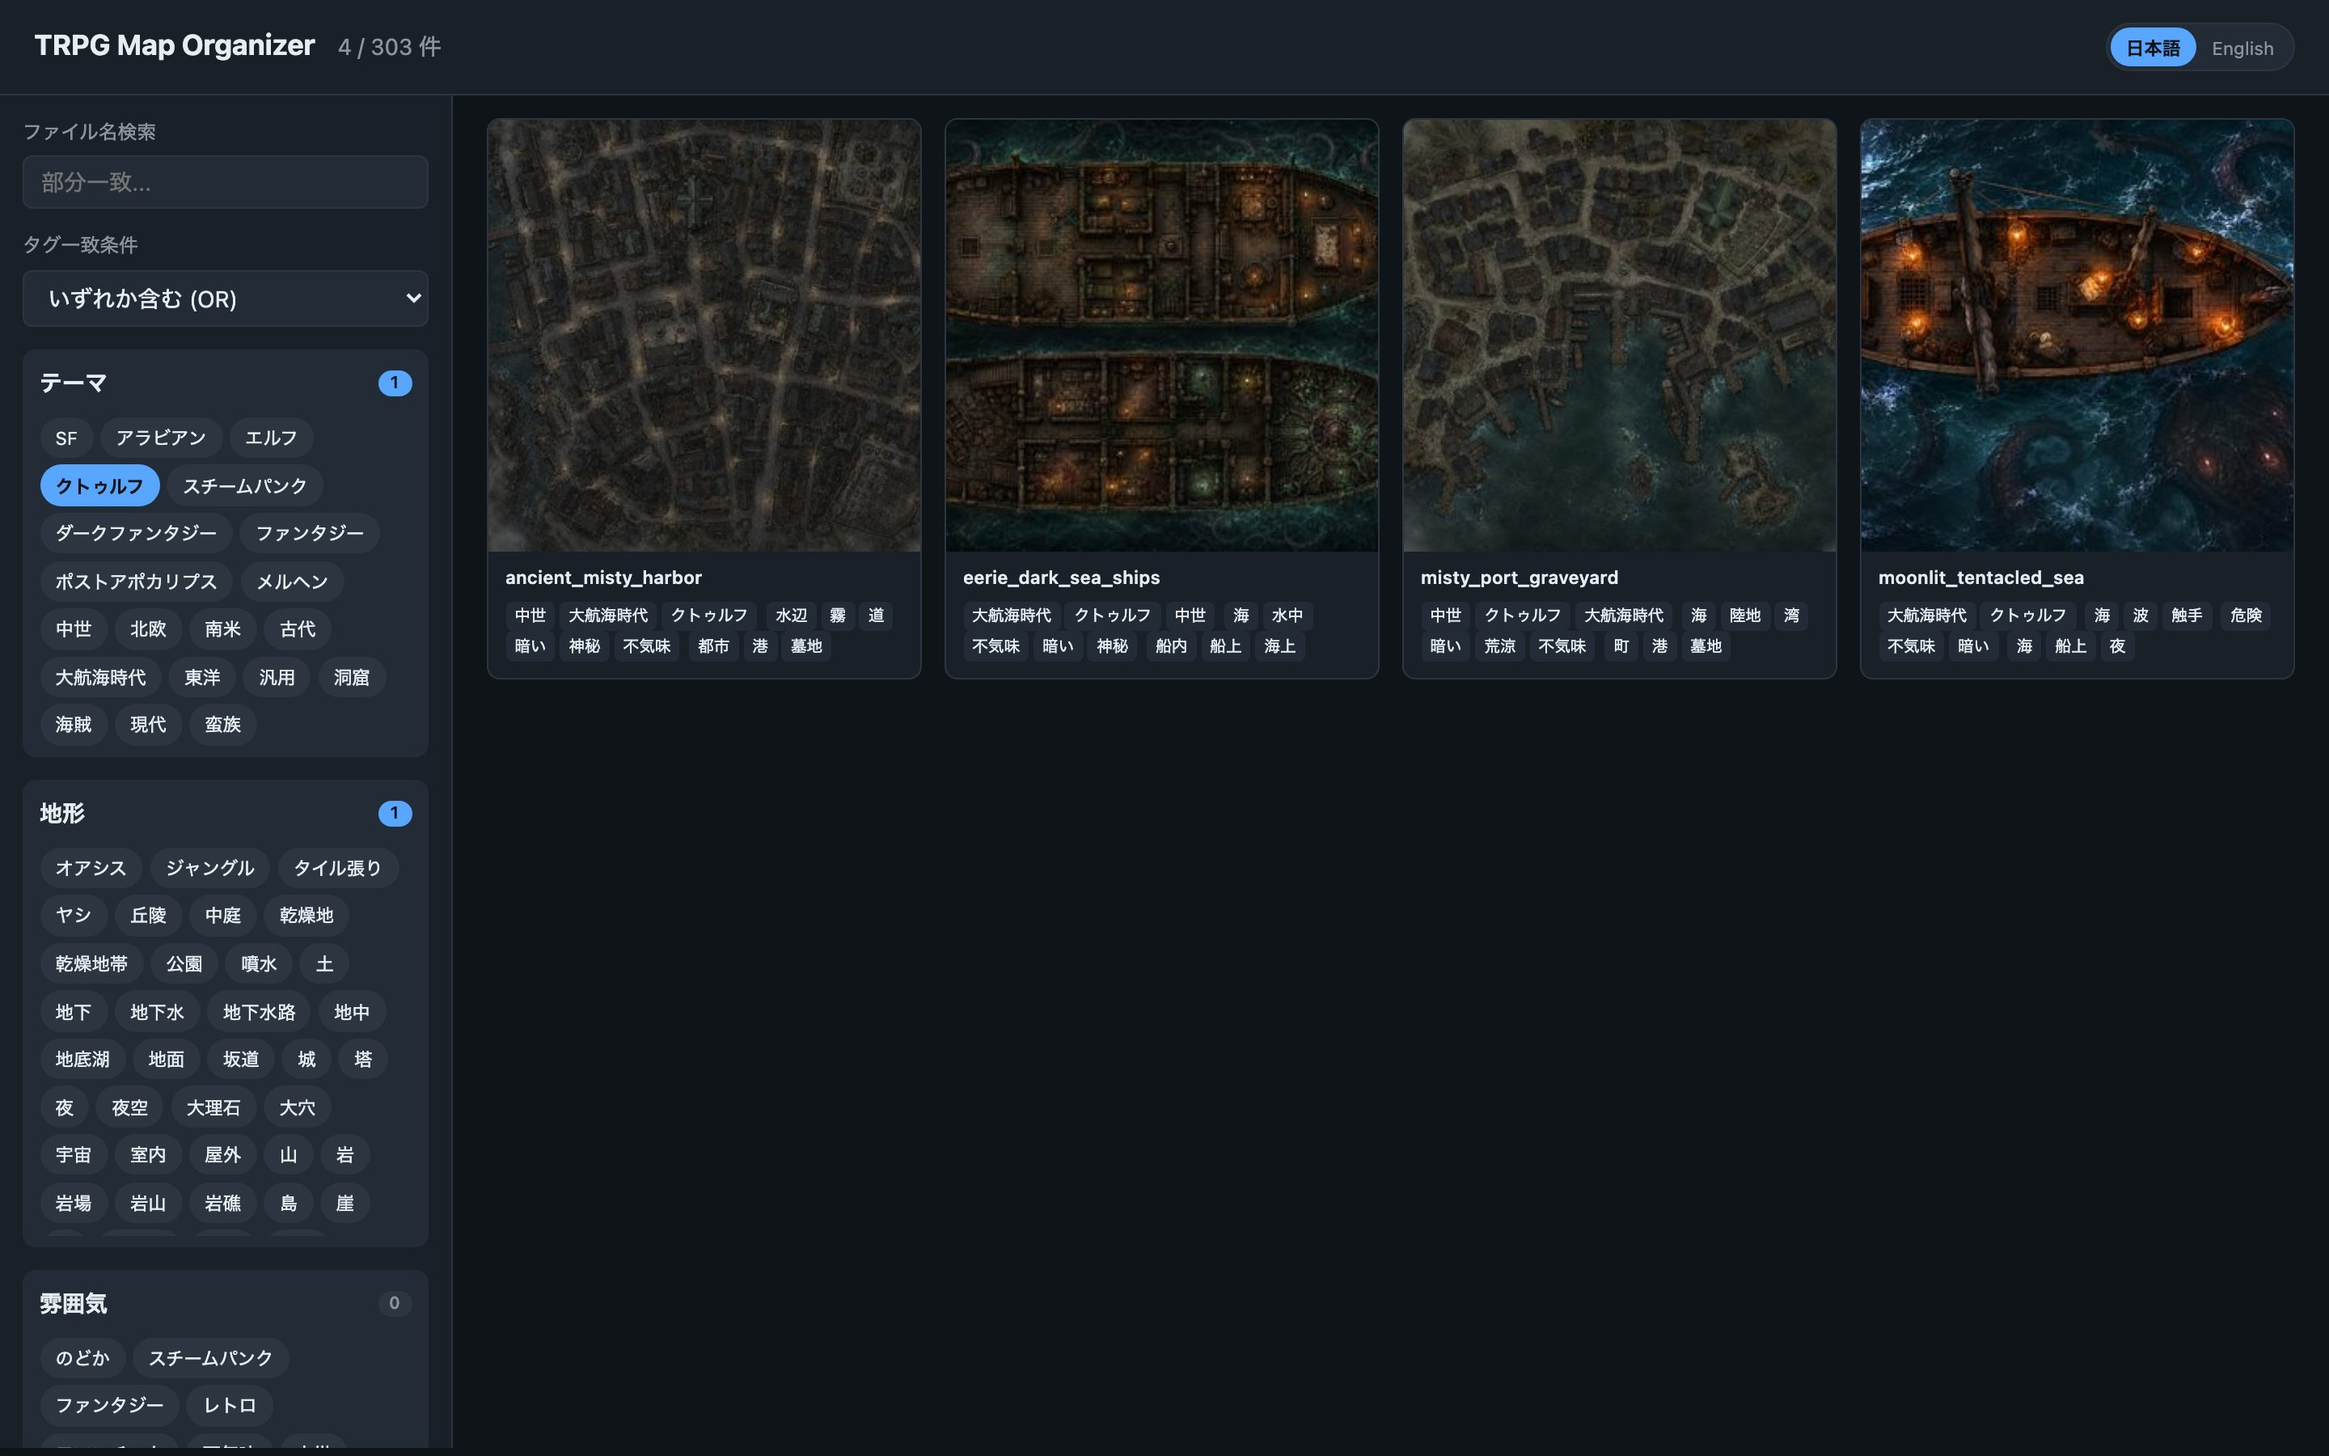
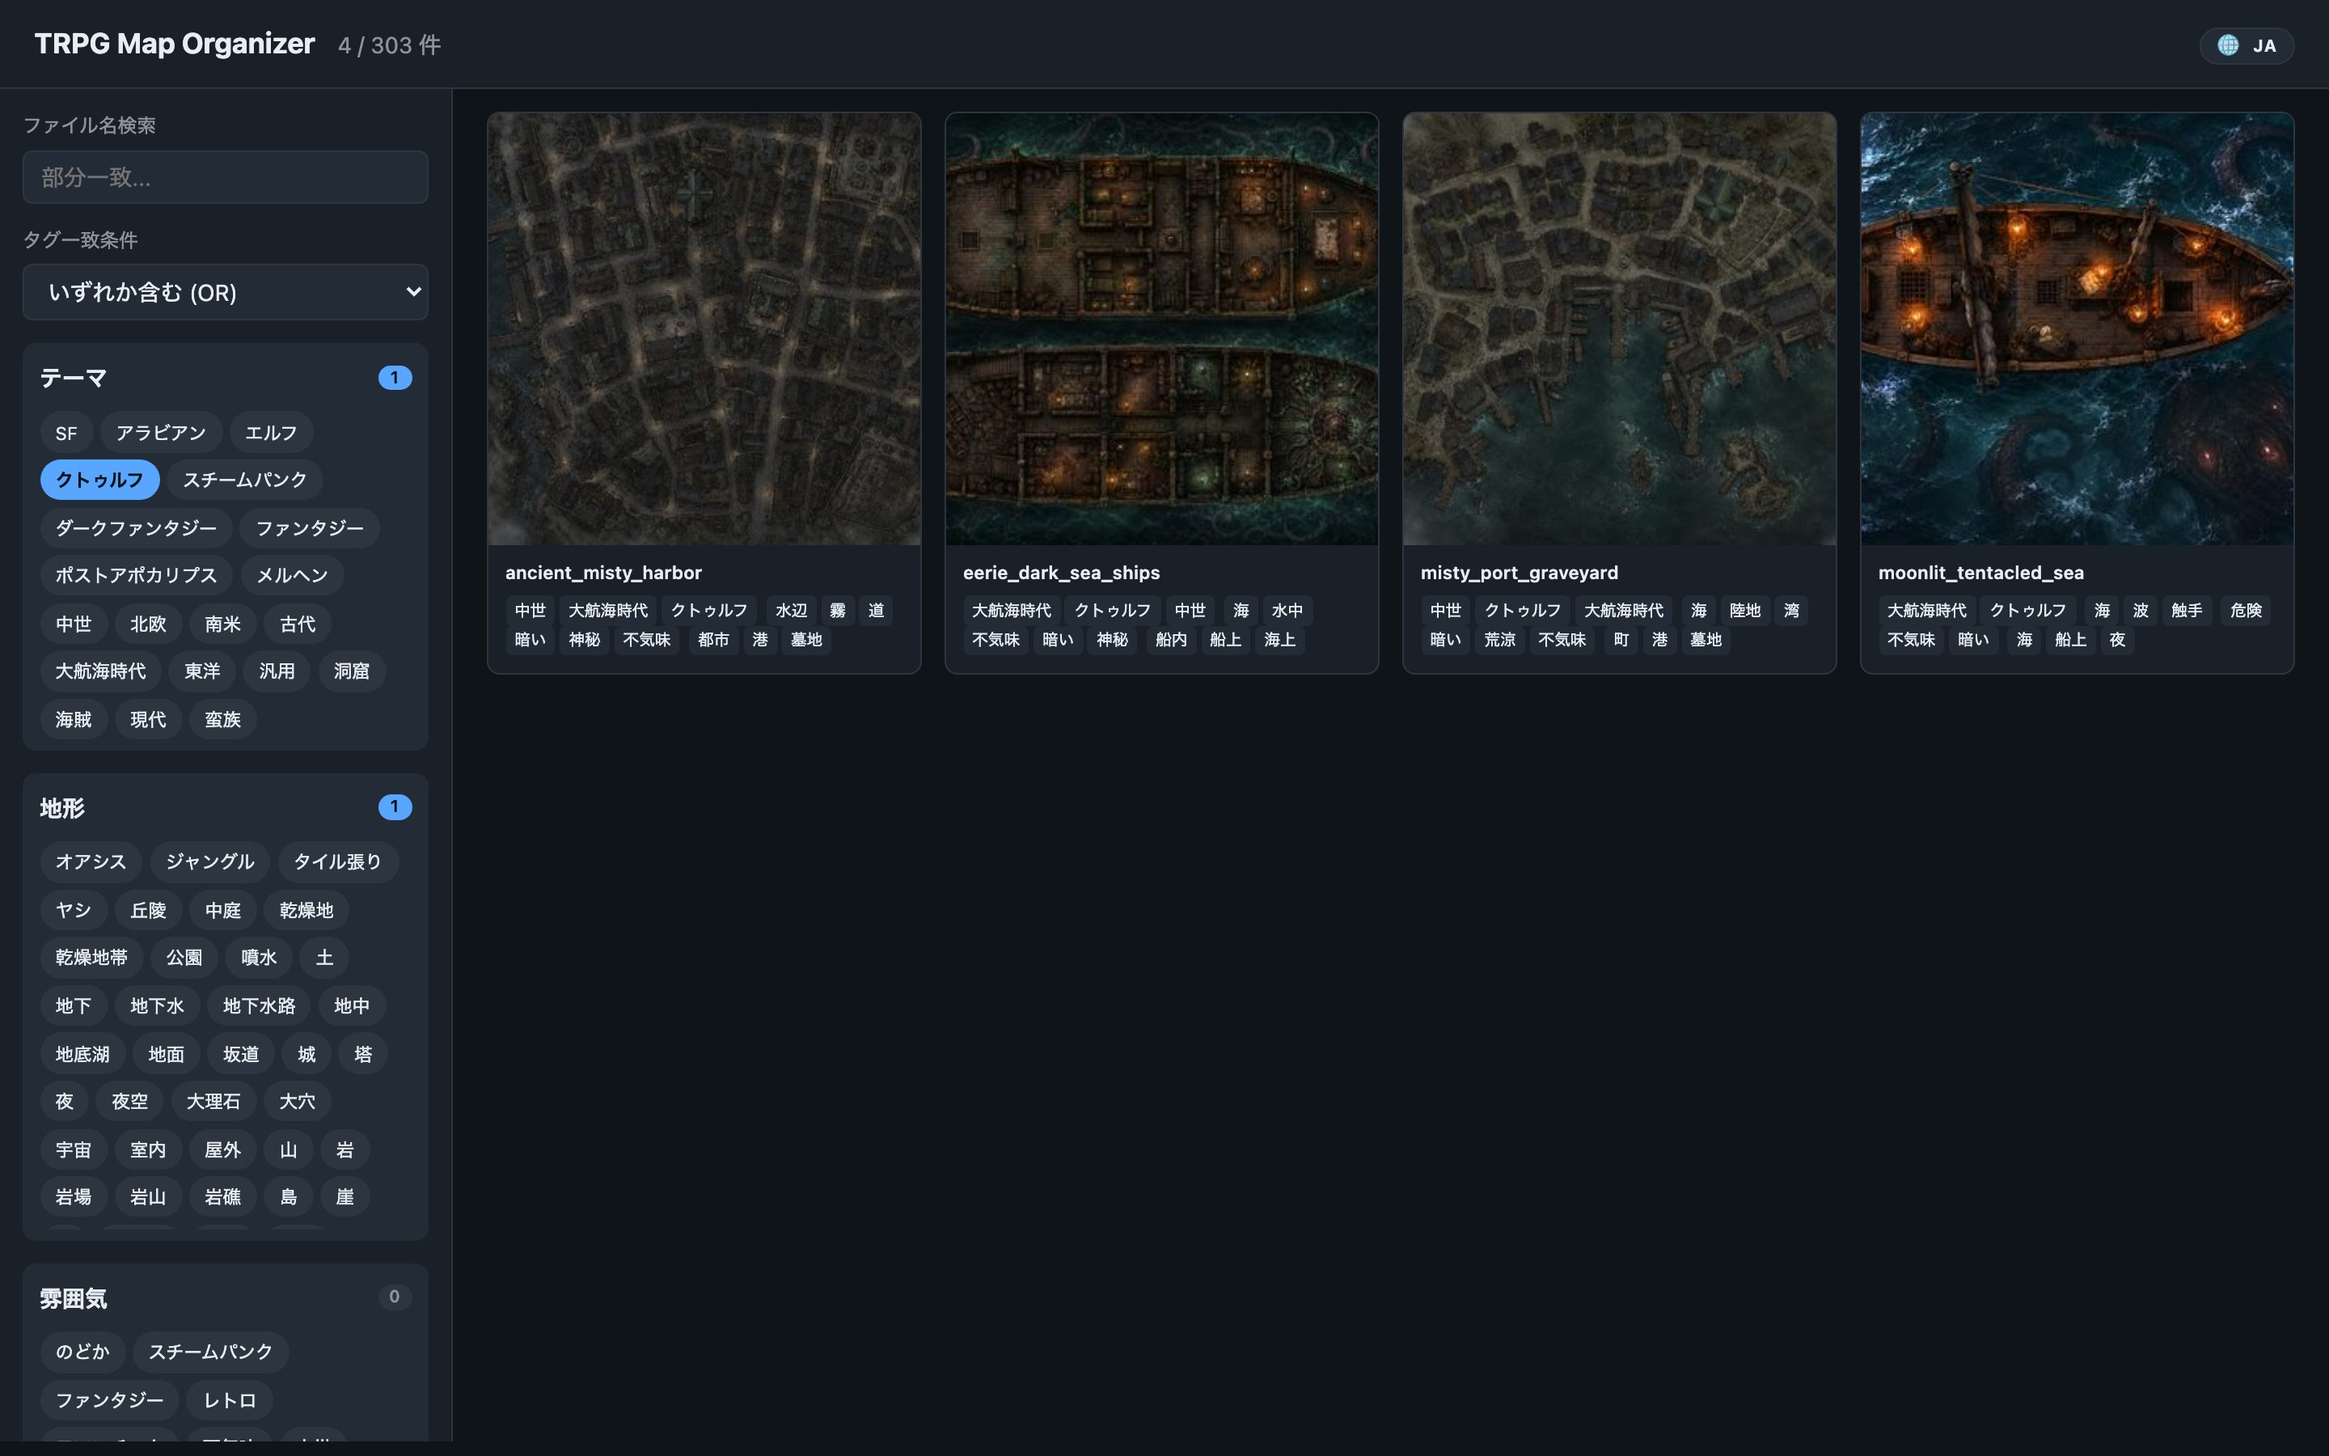
feat(web): モバイルヘッダーを 1 行化 + フィルタ強調 + 言語アイコン化
ユーザフィードバックを反映:
1. モバイル時のトップバーが 2 行に折り返していたため、4 要素を 1 行に収まる
   ように調整 (375 幅で 365px 内に収まる)
2. フィルタボタンをアクセント青の強調表示に変更し常時目立つように
   (背景=accent / 太字 / シャドウ / 選択時パルスアニメ)
3. 言語スイッチャの 2 ボタン構造を「🌐 + 現在 lang コード」の 1 ボタンに
   置き換え、タップで JA <-> EN をトグル

実装詳細:
- index.html:
  - <h1> に .topbar-title クラス + ellipsis 用に min-width:0 設定
  - <div.lang-switcher> の 2 ボタンを <button.lang-toggle> 1 つに置換
  - filter-icon を ☰ から 🔍 に変更
- style.css:
  - 既定: .topbar-title (ellipsis), .lang-toggle (新, アイコン+code)
  - mobile (@max-width: 800px):
    * .topbar { flex-wrap: nowrap; gap: 0.4rem; padding 縮小 }
    * .topbar-title { font 0.9rem, ellipsize }
    * .count { font 0.75rem, margin-right:auto }
    * .filter-toggle { accent BG, font 700, shadow, padding 大きめ }
    * .filter-toggle.has-filters でパルス
    * .lang-toggle { 縮小 }
- app.js:
  - applyUiTranslations が #lang-code を state.lang から再描画
  - lang-toggle.click でトグル (ja <-> en) + localStorage 保存
  - 旧 .lang-btn ループを撤去

検証 (375x812):
- 4 要素が同一行 (y_spread=8px, same_row=true) ✓
- 全要素合計 width 365px / 375px ✓
- 言語タップで lang=ja→en, code=JA→EN, count=303件→303 items,
  filter_label=フィルタ→Filters, タグ=SF→sci-fi に全連動 ✓
- 再タップで JA に戻る ✓

diff --git a/docs/style.css b/docs/style.css
@@ -46,15 +46,20 @@ body.scroll-locked {
   z-index: 30;
 }
 
-.topbar h1 {
+.topbar-title {
   margin: 0;
   font-size: 1.25rem;
+  white-space: nowrap;
+  overflow: hidden;
+  text-overflow: ellipsis;
+  min-width: 0;
 }
 
 .count {
   color: var(--text-dim);
   font-variant-numeric: tabular-nums;
   margin-right: auto;
+  white-space: nowrap;
 }
 
 /* モバイル時のみ表示するフィルタトグルボタン */
@@ -97,6 +102,30 @@ body.scroll-locked {
   background: rgba(15, 20, 25, 0.25);
   color: var(--tag-fg-active);
 }
+
+/* 言語切替トグル (アイコンボタン) */
+.lang-toggle {
+  display: inline-flex;
+  align-items: center;
+  gap: 0.35rem;
+  background: var(--panel-2);
+  color: var(--text);
+  border: 1px solid var(--border);
+  border-radius: 999px;
+  padding: 0.3rem 0.7rem;
+  font-family: inherit;
+  font-size: 0.75rem;
+  font-weight: 700;
+  letter-spacing: 0.05em;
+  cursor: pointer;
+  flex-shrink: 0;
+}
+.lang-toggle:hover {
+  border-color: var(--accent);
+  color: var(--accent);
+}
+.lang-toggle .lang-icon { font-size: 0.95rem; line-height: 1; }
+.lang-toggle .lang-code { line-height: 1; }
 
 .sidebar-backdrop {
   display: none;
@@ -520,15 +549,62 @@ body.scroll-locked {
 }
 
 @media (max-width: 800px) {
+  /* モバイル: タイトル / 件数 / フィルタ / 言語 を 1 行に収める */
   .topbar {
-    flex-wrap: wrap;
-    gap: 0.5rem;
-    padding: 0.7rem 0.85rem;
+    flex-wrap: nowrap;
+    gap: 0.4rem;
+    padding: 0.55rem 0.7rem;
+    align-items: center;
   }
-  .topbar h1 { font-size: 1rem; }
-  .filter-toggle { display: inline-flex; }
-  /* 日本語/英語スイッチャはやや小さく */
-  .lang-btn { padding: 0.2rem 0.55rem; font-size: 0.75rem; }
+  .topbar-title {
+    font-size: 0.9rem;
+    flex: 0 1 auto;
+    min-width: 0;
+  }
+  .count {
+    font-size: 0.75rem;
+    margin-right: auto;
+    flex-shrink: 1;
+    min-width: 0;
+  }
+
+  /* フィルタはアクセントカラーで常時目立つように */
+  .filter-toggle {
+    display: inline-flex;
+    background: var(--accent);
+    color: var(--tag-fg-active);
+    border-color: var(--accent);
+    font-weight: 700;
+    padding: 0.45rem 0.85rem;
+    box-shadow: 0 2px 10px rgba(88, 166, 255, 0.45);
+    flex-shrink: 0;
+  }
+  .filter-toggle:hover {
+    background: var(--accent);
+    color: var(--tag-fg-active);
+    border-color: var(--accent);
+  }
+  .filter-toggle .filter-icon { font-size: 1.05rem; }
+  .filter-toggle .filter-badge {
+    background: rgba(15, 20, 25, 0.3);
+    color: var(--tag-fg-active);
+    font-weight: 700;
+  }
+  /* 選択タグがあれば光らせて気付かせる */
+  .filter-toggle.has-filters {
+    animation: filter-pulse 1.4s ease-in-out;
+  }
+  @keyframes filter-pulse {
+    0% { box-shadow: 0 2px 10px rgba(88, 166, 255, 0.45); }
+    50% { box-shadow: 0 4px 16px rgba(88, 166, 255, 0.85); }
+    100% { box-shadow: 0 2px 10px rgba(88, 166, 255, 0.45); }
+  }
+
+  .lang-toggle {
+    padding: 0.32rem 0.55rem;
+    font-size: 0.7rem;
+  }
+  .lang-toggle .lang-icon { font-size: 1rem; }
 
   .layout { grid-template-columns: 1fr; }
 

diff --git a/web/style.css b/web/style.css
@@ -46,15 +46,20 @@ body.scroll-locked {
   z-index: 30;
 }
 
-.topbar h1 {
+.topbar-title {
   margin: 0;
   font-size: 1.25rem;
+  white-space: nowrap;
+  overflow: hidden;
+  text-overflow: ellipsis;
+  min-width: 0;
 }
 
 .count {
   color: var(--text-dim);
   font-variant-numeric: tabular-nums;
   margin-right: auto;
+  white-space: nowrap;
 }
 
 /* モバイル時のみ表示するフィルタトグルボタン */
@@ -97,6 +102,30 @@ body.scroll-locked {
   background: rgba(15, 20, 25, 0.25);
   color: var(--tag-fg-active);
 }
+
+/* 言語切替トグル (アイコンボタン) */
+.lang-toggle {
+  display: inline-flex;
+  align-items: center;
+  gap: 0.35rem;
+  background: var(--panel-2);
+  color: var(--text);
+  border: 1px solid var(--border);
+  border-radius: 999px;
+  padding: 0.3rem 0.7rem;
+  font-family: inherit;
+  font-size: 0.75rem;
+  font-weight: 700;
+  letter-spacing: 0.05em;
+  cursor: pointer;
+  flex-shrink: 0;
+}
+.lang-toggle:hover {
+  border-color: var(--accent);
+  color: var(--accent);
+}
+.lang-toggle .lang-icon { font-size: 0.95rem; line-height: 1; }
+.lang-toggle .lang-code { line-height: 1; }
 
 .sidebar-backdrop {
   display: none;
@@ -520,15 +549,62 @@ body.scroll-locked {
 }
 
 @media (max-width: 800px) {
+  /* モバイル: タイトル / 件数 / フィルタ / 言語 を 1 行に収める */
   .topbar {
-    flex-wrap: wrap;
-    gap: 0.5rem;
-    padding: 0.7rem 0.85rem;
+    flex-wrap: nowrap;
+    gap: 0.4rem;
+    padding: 0.55rem 0.7rem;
+    align-items: center;
   }
-  .topbar h1 { font-size: 1rem; }
-  .filter-toggle { display: inline-flex; }
-  /* 日本語/英語スイッチャはやや小さく */
-  .lang-btn { padding: 0.2rem 0.55rem; font-size: 0.75rem; }
+  .topbar-title {
+    font-size: 0.9rem;
+    flex: 0 1 auto;
+    min-width: 0;
+  }
+  .count {
+    font-size: 0.75rem;
+    margin-right: auto;
+    flex-shrink: 1;
+    min-width: 0;
+  }
+
+  /* フィルタはアクセントカラーで常時目立つように */
+  .filter-toggle {
+    display: inline-flex;
+    background: var(--accent);
+    color: var(--tag-fg-active);
+    border-color: var(--accent);
+    font-weight: 700;
+    padding: 0.45rem 0.85rem;
+    box-shadow: 0 2px 10px rgba(88, 166, 255, 0.45);
+    flex-shrink: 0;
+  }
+  .filter-toggle:hover {
+    background: var(--accent);
+    color: var(--tag-fg-active);
+    border-color: var(--accent);
+  }
+  .filter-toggle .filter-icon { font-size: 1.05rem; }
+  .filter-toggle .filter-badge {
+    background: rgba(15, 20, 25, 0.3);
+    color: var(--tag-fg-active);
+    font-weight: 700;
+  }
+  /* 選択タグがあれば光らせて気付かせる */
+  .filter-toggle.has-filters {
+    animation: filter-pulse 1.4s ease-in-out;
+  }
+  @keyframes filter-pulse {
+    0% { box-shadow: 0 2px 10px rgba(88, 166, 255, 0.45); }
+    50% { box-shadow: 0 4px 16px rgba(88, 166, 255, 0.85); }
+    100% { box-shadow: 0 2px 10px rgba(88, 166, 255, 0.45); }
+  }
+
+  .lang-toggle {
+    padding: 0.32rem 0.55rem;
+    font-size: 0.7rem;
+  }
+  .lang-toggle .lang-icon { font-size: 1rem; }
 
   .layout { grid-template-columns: 1fr; }
 

diff --git a/docs/app.js b/docs/app.js
@@ -178,10 +178,9 @@ function applyUiTranslations() {
   }
   // html lang 属性
   document.documentElement.lang = state.lang;
-  // 言語スイッチャの active 状態
-  for (const btn of document.querySelectorAll('.lang-btn')) {
-    btn.classList.toggle('active', btn.dataset.lang === state.lang);
-  }
+  // 言語ボタンの現在表示
+  const codeEl = document.getElementById('lang-code');
+  if (codeEl) codeEl.textContent = state.lang === 'ja' ? 'JA' : 'EN';
 }
 
 // ===== フィルタ UI =====
@@ -570,16 +569,15 @@ function bindEvents() {
   document.getElementById('filter-toggle').addEventListener('click', toggleSidebar);
   document.getElementById('sidebar-backdrop').addEventListener('click', closeSidebar);
 
-  for (const btn of document.querySelectorAll('.lang-btn')) {
-    btn.addEventListener('click', () => {
-      state.lang = btn.dataset.lang;
-      localStorage.setItem('lang', state.lang);
-      applyUiTranslations();
-      refreshChipLabels();
-      render();
-      if (document.getElementById('preview').open) renderPreview();
-    });
-  }
+  // 言語トグル: タップで JA <-> EN を切替
+  document.getElementById('lang-toggle').addEventListener('click', () => {
+    state.lang = state.lang === 'ja' ? 'en' : 'ja';
+    localStorage.setItem('lang', state.lang);
+    applyUiTranslations();
+    refreshChipLabels();
+    render();
+    if (document.getElementById('preview').open) renderPreview();
+  });
 
   document.getElementById('close').addEventListener('click', closePreview);
 

diff --git a/web/app.js b/web/app.js
@@ -178,10 +178,9 @@ function applyUiTranslations() {
   }
   // html lang 属性
   document.documentElement.lang = state.lang;
-  // 言語スイッチャの active 状態
-  for (const btn of document.querySelectorAll('.lang-btn')) {
-    btn.classList.toggle('active', btn.dataset.lang === state.lang);
-  }
+  // 言語ボタンの現在表示
+  const codeEl = document.getElementById('lang-code');
+  if (codeEl) codeEl.textContent = state.lang === 'ja' ? 'JA' : 'EN';
 }
 
 // ===== フィルタ UI =====
@@ -570,16 +569,15 @@ function bindEvents() {
   document.getElementById('filter-toggle').addEventListener('click', toggleSidebar);
   document.getElementById('sidebar-backdrop').addEventListener('click', closeSidebar);
 
-  for (const btn of document.querySelectorAll('.lang-btn')) {
-    btn.addEventListener('click', () => {
-      state.lang = btn.dataset.lang;
-      localStorage.setItem('lang', state.lang);
-      applyUiTranslations();
-      refreshChipLabels();
-      render();
-      if (document.getElementById('preview').open) renderPreview();
-    });
-  }
+  // 言語トグル: タップで JA <-> EN を切替
+  document.getElementById('lang-toggle').addEventListener('click', () => {
+    state.lang = state.lang === 'ja' ? 'en' : 'ja';
+    localStorage.setItem('lang', state.lang);
+    applyUiTranslations();
+    refreshChipLabels();
+    render();
+    if (document.getElementById('preview').open) renderPreview();
+  });
 
   document.getElementById('close').addEventListener('click', closePreview);
 

diff --git a/docs/index.html b/docs/index.html
@@ -8,17 +8,17 @@
 </head>
 <body>
   <header class="topbar">
-    <h1 data-i18n="title">TRPG Map Organizer</h1>
+    <h1 class="topbar-title" data-i18n="title">TRPG Map Organizer</h1>
     <span id="count" class="count">—</span>
     <button type="button" id="filter-toggle" class="filter-toggle" aria-expanded="false" aria-controls="sidebar">
-      <span class="filter-icon" aria-hidden="true">☰</span>
+      <span class="filter-icon" aria-hidden="true">🔍</span>
       <span class="filter-label" data-i18n="filters">フィルタ</span>
       <span class="filter-badge" id="filter-badge">0</span>
     </button>
-    <div class="lang-switcher" role="group" aria-label="Language">
-      <button type="button" class="lang-btn" data-lang="ja">日本語</button>
-      <button type="button" class="lang-btn" data-lang="en">English</button>
-    </div>
+    <button type="button" id="lang-toggle" class="lang-toggle" data-i18n-attr="title:lang_label,aria-label:lang_label" title="言語" aria-label="言語">
+      <span class="lang-icon" aria-hidden="true">🌐</span>
+      <span class="lang-code" id="lang-code">JA</span>
+    </button>
   </header>
 
   <div class="layout">

diff --git a/web/index.html b/web/index.html
@@ -8,17 +8,17 @@
 </head>
 <body>
   <header class="topbar">
-    <h1 data-i18n="title">TRPG Map Organizer</h1>
+    <h1 class="topbar-title" data-i18n="title">TRPG Map Organizer</h1>
     <span id="count" class="count">—</span>
     <button type="button" id="filter-toggle" class="filter-toggle" aria-expanded="false" aria-controls="sidebar">
-      <span class="filter-icon" aria-hidden="true">☰</span>
+      <span class="filter-icon" aria-hidden="true">🔍</span>
       <span class="filter-label" data-i18n="filters">フィルタ</span>
       <span class="filter-badge" id="filter-badge">0</span>
     </button>
-    <div class="lang-switcher" role="group" aria-label="Language">
-      <button type="button" class="lang-btn" data-lang="ja">日本語</button>
-      <button type="button" class="lang-btn" data-lang="en">English</button>
-    </div>
+    <button type="button" id="lang-toggle" class="lang-toggle" data-i18n-attr="title:lang_label,aria-label:lang_label" title="言語" aria-label="言語">
+      <span class="lang-icon" aria-hidden="true">🌐</span>
+      <span class="lang-code" id="lang-code">JA</span>
+    </button>
   </header>
 
   <div class="layout">
